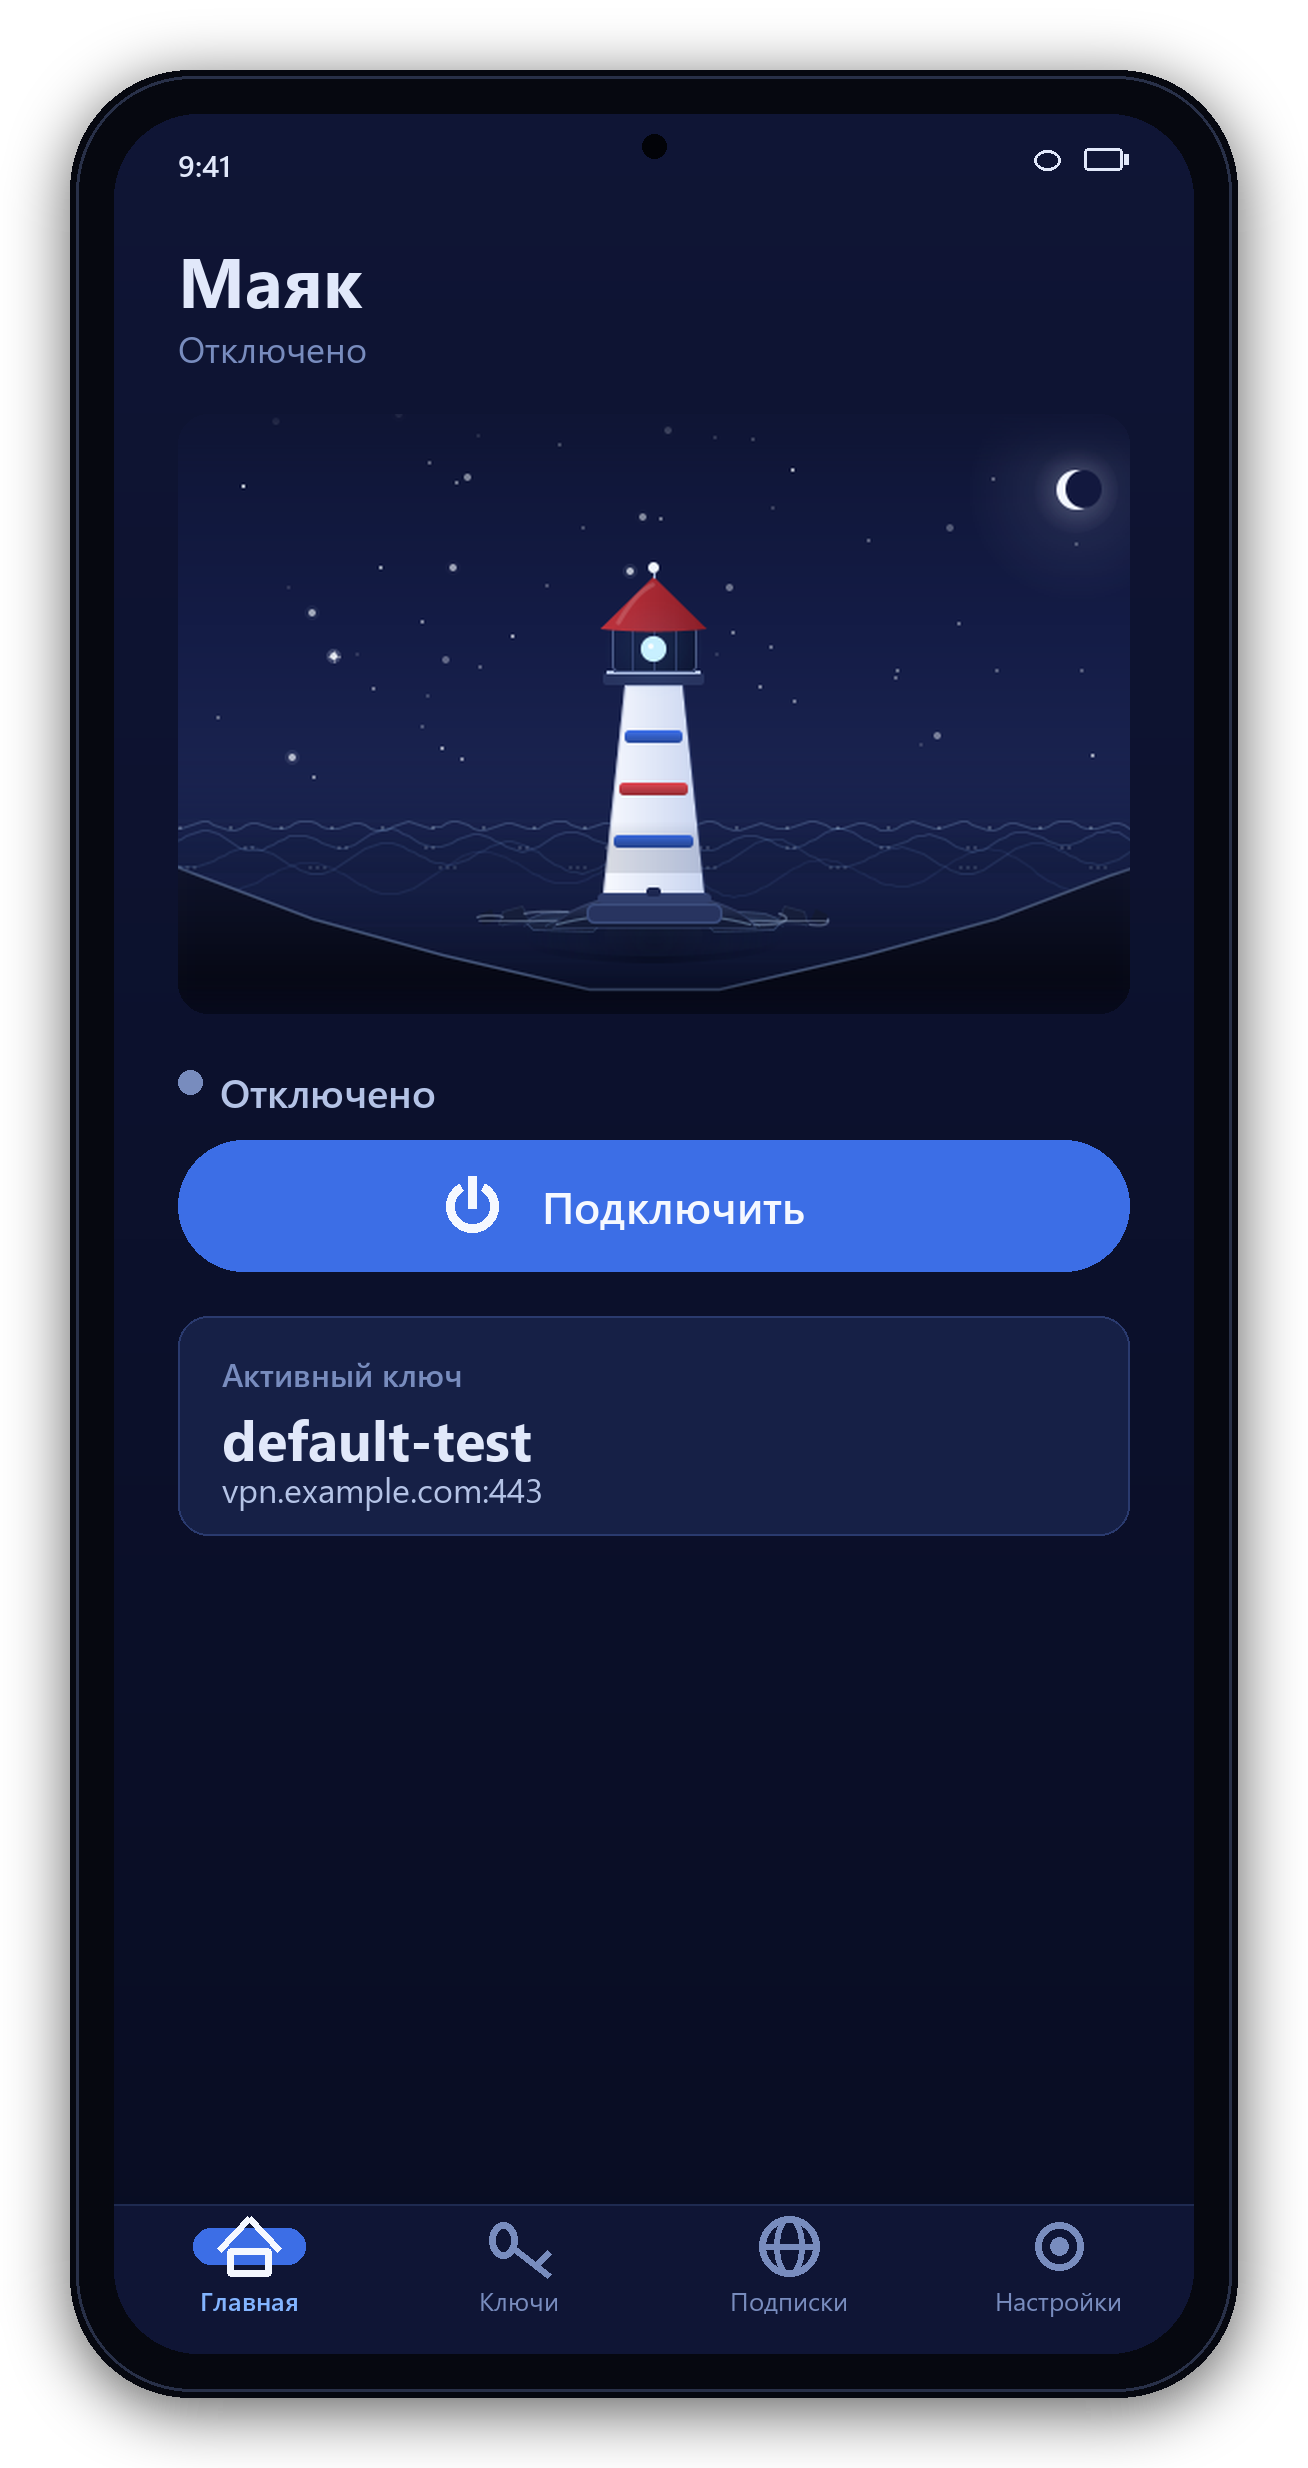
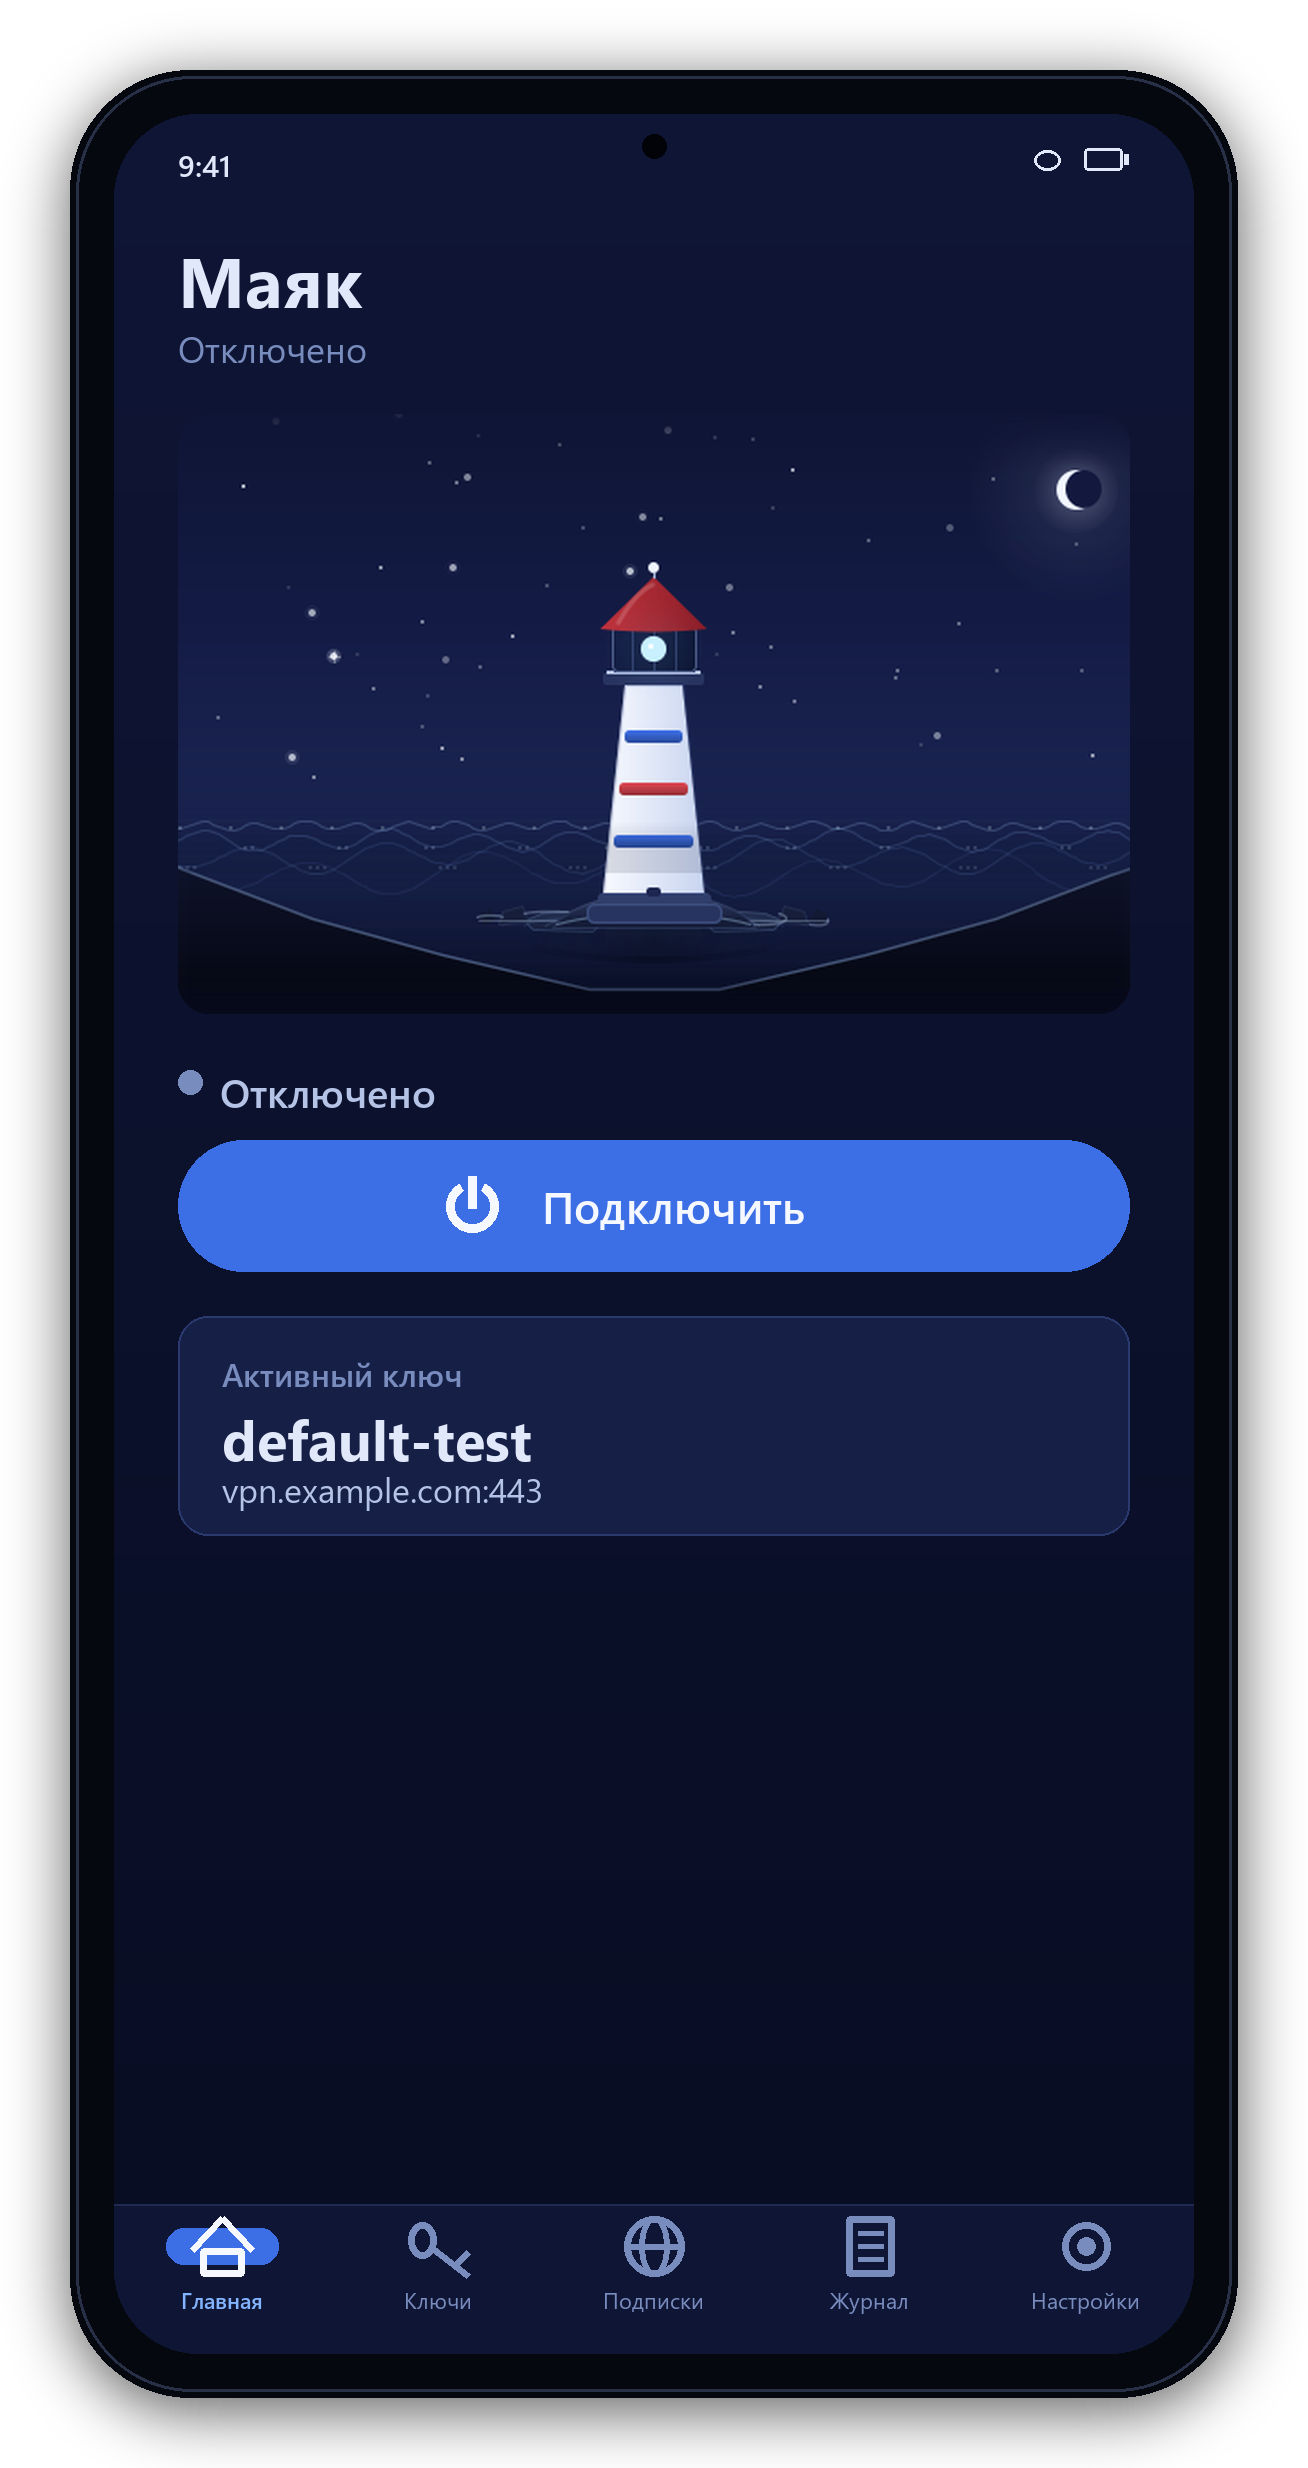
refine android lighthouse

diff --git a/app/src/main/kotlin/app/mayak/ui/LighthouseHero.kt b/app/src/main/kotlin/app/mayak/ui/LighthouseHero.kt
@@ -427,14 +427,14 @@ private fun DrawScope.drawLhBulbGlow(
         ),
         center = Offset(cx, cy), radius = bulbR * 4f
     )
-    val lensSize = Size(bulbR * 3.5f, bulbR * 2.25f)
+    val lensSize = Size(bulbR * 3.2f, bulbR * 1.7f)
     val lensTopLeft = Offset(cx - lensSize.width / 2f, cy - lensSize.height / 2f)
     drawOval(
         brush = Brush.horizontalGradient(
             colors = listOf(
-                haloColor.copy(alpha = 0.22f * onAlpha),
-                coreColor.copy(alpha = 0.92f * onAlpha),
-                haloColor.copy(alpha = 0.22f * onAlpha)
+                haloColor.copy(alpha = 0.12f * onAlpha),
+                coreColor.copy(alpha = 0.7f * onAlpha),
+                haloColor.copy(alpha = 0.12f * onAlpha)
             ),
             startX = lensTopLeft.x,
             endX = lensTopLeft.x + lensSize.width
@@ -443,27 +443,33 @@ private fun DrawScope.drawLhBulbGlow(
         size = lensSize
     )
     drawOval(
-        color = Color(0xFFDCEEFF).copy(alpha = 0.88f),
+        color = Color(0xFFDCEEFF).copy(alpha = 0.68f),
         topLeft = lensTopLeft,
         size = lensSize,
         style = Stroke(1f)
     )
-    for (step in -2..2) {
-        val y = cy + step * lensSize.height / 6.5f
-        val halfWidth = lensSize.width * (0.44f - kotlin.math.abs(step) * 0.045f)
+    for (step in -1..1) {
+        val y = cy + step * lensSize.height / 4.5f
+        val halfWidth = lensSize.width * (0.43f - kotlin.math.abs(step) * 0.04f)
         drawLine(
-            color = Color.White.copy(alpha = 0.46f * onAlpha),
+            color = Color.White.copy(alpha = 0.28f * onAlpha),
             start = Offset(cx - halfWidth, y),
             end = Offset(cx + halfWidth, y),
-            strokeWidth = 0.9f,
+            strokeWidth = 0.7f,
             cap = StrokeCap.Round
         )
     }
-    drawCircle(coreColor, radius = bulbR * 0.78f, center = Offset(cx, cy))
-    drawCircle(
-        Color(1f, 1f, 1f, 0.9f),
-        radius = 1.7f,
-        center = Offset(cx - bulbR * 0.32f, cy - bulbR * 0.28f)
+    drawOval(
+        brush = Brush.radialGradient(
+            colors = listOf(
+                coreColor.copy(alpha = 0.5f * onAlpha),
+                coreColor.copy(alpha = 0f)
+            ),
+            center = Offset(cx, cy),
+            radius = lensSize.width * 0.42f
+        ),
+        topLeft = lensTopLeft,
+        size = lensSize
     )
 }
 

diff --git a/desktop/src/test/kotlin/app/mayak/desktop/HoverAnimatorTest.kt b/desktop/src/test/kotlin/app/mayak/desktop/HoverAnimatorTest.kt
@@ -22,7 +22,8 @@ class HoverAnimatorTest {
         }
 
         assertTrue(finished.await(2, TimeUnit.SECONDS))
-        assertTrue(samples.size >= 10)
+        assertTrue(samples.size >= 3)
+        assertTrue(samples.dropLast(1).any { it in 0.01f..0.99f })
         assertEquals(1f, samples.last())
     }
 }

diff --git a/dev/android-mockup.py b/dev/android-mockup.py
@@ -74,6 +74,10 @@ def nav_icon(d, name, cx, cy, color):
         d.ellipse([cx - s, cy - s, cx + s, cy + s], outline=color, width=7)
         d.ellipse([cx - s // 2, cy - s, cx + s // 2, cy + s], outline=color, width=6)
         d.line([cx - s, cy, cx + s, cy], fill=color, width=6)
+    elif name == "journal":
+        d.rounded_rectangle([cx - s + 6, cy - s, cx + s - 6, cy + s], 4, outline=color, width=7)
+        for y in (-13, 0, 13):
+            d.line([cx - 12, cy + y, cx + 13, cy + y], fill=color, width=5)
     elif name == "gear":
         d.ellipse([cx - s + 6, cy - s + 6, cx + s - 6, cy + s - 6], outline=color, width=7)
         d.ellipse([cx - 9, cy - 9, cx + 9, cy + 9], fill=color)
@@ -149,8 +153,14 @@ def screen(connected, hero_box, hero_src):
     ny = H - nh
     d.rectangle([0, ny, W, H], fill=BG_TOP)
     d.line([0, ny, W, ny], fill=(30, 42, 80), width=2)
-    tabs = [("home", "Главная"), ("key", "Ключи"), ("globe", "Подписки"), ("gear", "Настройки")]
-    seg = W // 4
+    tabs = [
+        ("home", "Главная"),
+        ("key", "Ключи"),
+        ("globe", "Подписки"),
+        ("journal", "Журнал"),
+        ("gear", "Настройки"),
+    ]
+    seg = W // len(tabs)
     for i, (icon, lab) in enumerate(tabs):
         cx = seg * i + seg // 2
         sel = i == 0
@@ -158,7 +168,7 @@ def screen(connected, hero_box, hero_src):
         if sel:
             d.rounded_rectangle([cx - 56, ny + 24, cx + 56, ny + 60], 18, fill=ACCENT)
         nav_icon(d, icon, cx, ny + 42, col)
-        d.text((cx, ny + 96), lab, font=fnt(26, "sb" if sel else "r"),
+        d.text((cx, ny + 96), lab, font=fnt(22, "sb" if sel else "r"),
                fill=ACCENT_LIGHT if sel else MUTED, anchor="mm")
     return cv
 
@@ -188,7 +198,22 @@ def bezel(screen_img):
 ON_BOX = (8, 84, 919, 422)
 OFF_BOX = (8, 92, 935, 424)
 
-bezel(screen(True, ON_BOX, ASSETS / "screenshot-on.png")).save(ASSETS / "android-on.png")
+on_phone = bezel(screen(True, ON_BOX, ASSETS / "screenshot-on.png"))
+off_phone = bezel(screen(False, OFF_BOX, ASSETS / "screenshot-off.png"))
+
+on_phone.save(ASSETS / "android-on.png")
 print("wrote android-on.png")
-bezel(screen(False, OFF_BOX, ASSETS / "screenshot-off.png")).save(ASSETS / "android-off.png")
+off_phone.save(ASSETS / "android-off.png")
 print("wrote android-off.png")
+
+canvas = Image.new("RGBA", (1600, 1100), (8, 13, 22, 255))
+phone_h = 1000
+phone_w = round(off_phone.width * phone_h / off_phone.height)
+off_small = off_phone.resize((phone_w, phone_h), Image.LANCZOS)
+on_small = on_phone.resize((phone_w, phone_h), Image.LANCZOS)
+gap = 70
+left = (canvas.width - phone_w * 2 - gap) // 2
+canvas.alpha_composite(off_small, (left, 50))
+canvas.alpha_composite(on_small, (left + phone_w + gap, 50))
+canvas.convert("RGB").save(ASSETS / "android.png", quality=95)
+print("wrote android.png")

diff --git a/README.md b/README.md
@@ -47,8 +47,7 @@
 ## Android
 
 <p align="center">
-  <img src=".assets/android-off.png" width="40%" alt="Маяк на Android - отключен">
-  <img src=".assets/android-on.png" width="40%" alt="Маяк на Android - подключен">
+  <img src=".assets/android.png" width="82%" alt="Маяк на Android">
 </p>
 
 ## Как начать